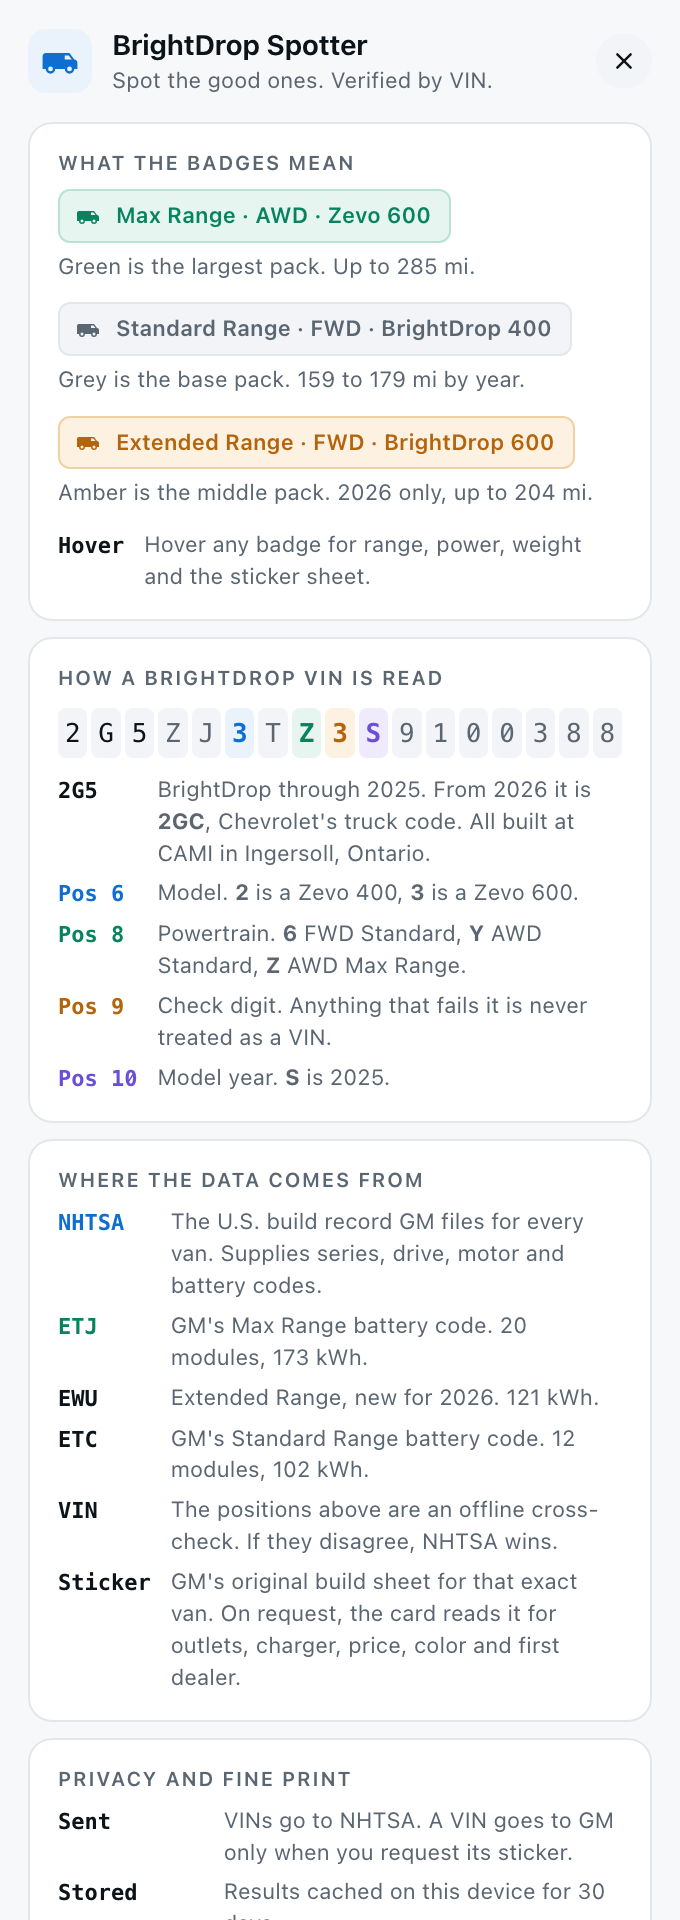
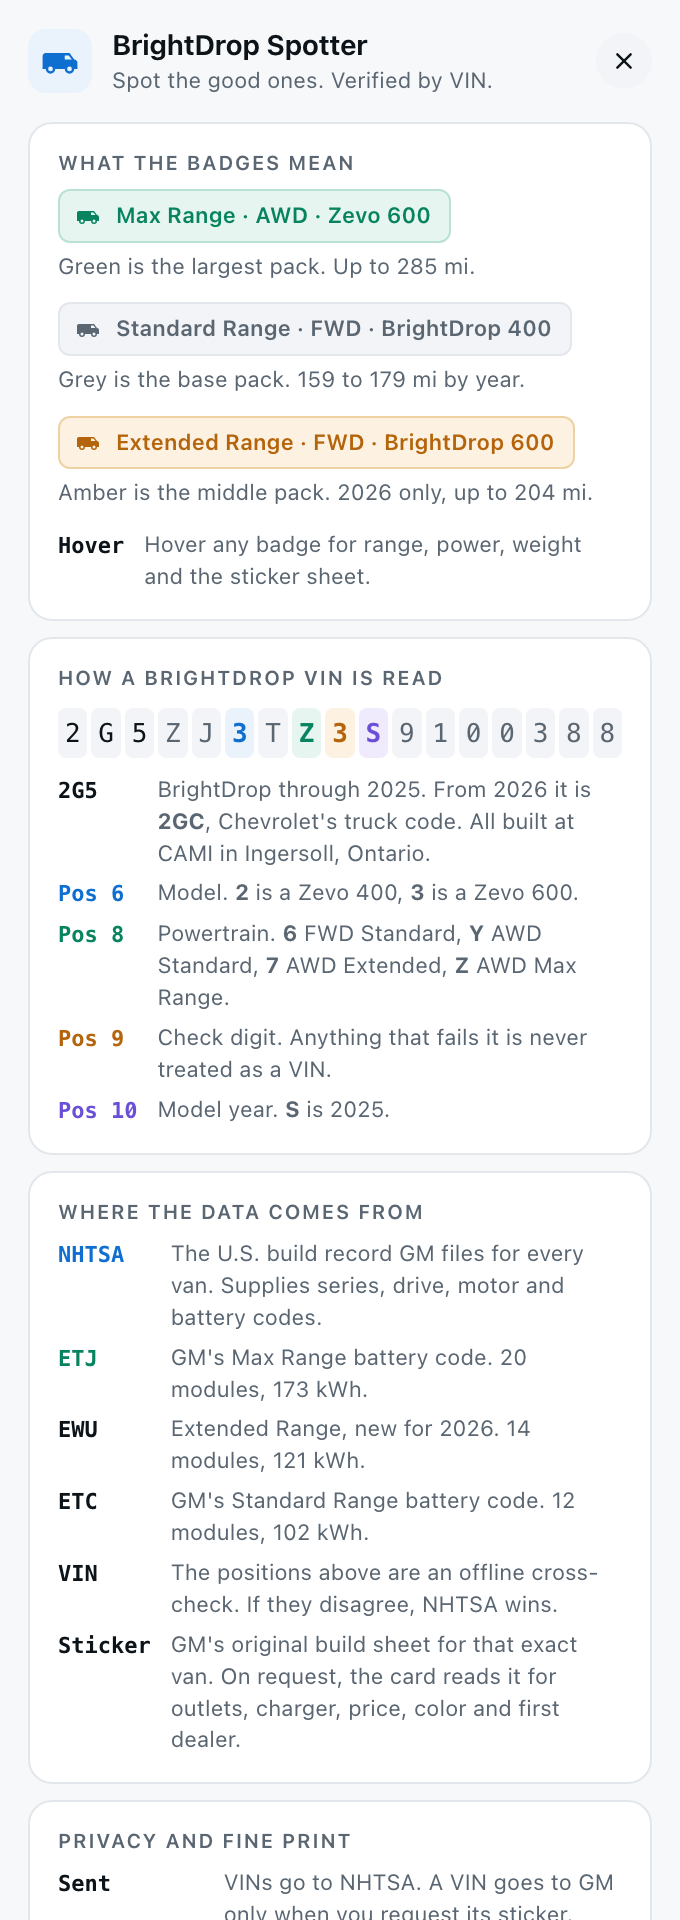
1.3.0: 2026 Extended Range from the VIN
Position 8 = 7 is AWD Extended Range (XRJ + EWU, 14 modules), confirmed on
2GCZJ3T7XT9100132 by vPIC and its GM window sticker.

- vin.js: decode 7, set EWU to 14 modules, map Extended Range to EWU in the
  vPIC drift check
- README, popup and website: add 7 to the position 8 legend; popup lists
  EWU's module count
- Tests: the confirmed van in the VIN and batch fixtures, drift cases for EWU
- Screenshots: footer shows 1.3.0, About shows the new legend

Changed region(s): [[0.0618, 0.5, 0.8956, 1.0], [0.0926, 0.6875, 0.2162, 0.875], [0.0618, 0.9062, 0.2162, 1.0]]

diff --git a/vin.js b/vin.js
@@ -112,6 +112,7 @@ export const VDS_POSITIONS = {
     values: {
       '6': { value: 'FWD · Standard Range', samples: 2, detail: 'XRM + ETC, 1 motor, 240 hp, 12 modules' },
       'Y': { value: 'AWD · Standard Range', samples: 5, detail: 'XRJ + ETC, 2 motors, 300 hp, 12 modules' },
+      '7': { value: 'AWD · Extended Range', samples: 1, detail: '2026 on. XRJ + EWU, 2 motors, 300 hp, 14 modules' },
       'Z': { value: 'AWD · Max Range', samples: 3, detail: 'XRJ + ETJ, 2 motors, 300 hp, 20 modules' },
       'G': { value: 'AWD · Max Range', samples: 3, detail: '2023 coding (position 7 is H that year). XRJ + ETJ, 2 motors, 300 hp' },
       // No FWD Max Range code exists: GM offers ETJ with AWD only (2025 and 2026 order guides).
@@ -255,10 +256,10 @@ export function decodeVin(raw, patterns = []) {
 const VPIC = 'https://vpic.nhtsa.dot.gov/api/vehicles/DecodeVinValues';
 
 // Usable kWh from GM's 2025 and 2026 order guides. Module counts as vPIC
-// reports them; EWU's is not published, so vPIC supplies it.
+// reports them; EWU's 14 is also printed on the window sticker.
 export const BATTERY_RPO = {
   ETC: { name: 'Standard Range', modules: 12, kWh: 102.4 },
-  EWU: { name: 'Extended Range', modules: null, kWh: 121 },
+  EWU: { name: 'Extended Range', modules: 14, kWh: 121 },
   ETJ: { name: 'Max Range', modules: 20, kWh: 173.3 },
 };
 
@@ -349,7 +350,7 @@ export async function lookupVin(raw, patterns = [], { fetchImpl = fetch } = {}) 
     if (localDrive && vpic.driveType && !vpic.driveType.toUpperCase().startsWith(localDrive)) {
       drift.push(`positional decode says ${localDrive}, vPIC says ${vpic.driveType}`);
     }
-    const localBattery = localPower?.includes('Max Range') ? 'ETJ' : localPower ? 'ETC' : null;
+    const localBattery = localPower?.includes('Max Range') ? 'ETJ' : localPower?.includes('Extended Range') ? 'EWU' : localPower ? 'ETC' : null;
     if (localBattery && vpic.batteryCode && localBattery !== vpic.batteryCode) {
       drift.push(`positional decode says ${localBattery}, vPIC says ${vpic.batteryCode}`);
     }

diff --git a/popup.html b/popup.html
@@ -349,7 +349,7 @@ limitations under the License.
         <div class="key">
           <code>2G5</code><span>BrightDrop through 2025. From 2026 it is <b>2GC</b>, Chevrolet's truck code. All built at CAMI in Ingersoll, Ontario.</span>
           <code class="hi">Pos 6</code><span>Model. <b>2</b> is a Zevo 400, <b>3</b> is a Zevo 600.</span>
-          <code class="max">Pos 8</code><span>Powertrain. <b>6</b> FWD Standard, <b>Y</b> AWD Standard, <b>Z</b> AWD Max Range.</span>
+          <code class="max">Pos 8</code><span>Powertrain. <b>6</b> FWD Standard, <b>Y</b> AWD Standard, <b>7</b> AWD Extended, <b>Z</b> AWD Max Range.</span>
           <code class="chk">Pos 9</code><span>Check digit. Anything that fails it is never treated as a VIN.</span>
           <code class="yr">Pos 10</code><span>Model year. <b>S</b> is 2025.</span>
         </div>
@@ -361,7 +361,7 @@ limitations under the License.
         <div class="key">
           <code><a href="https://vpic.nhtsa.dot.gov/" target="_blank" rel="noopener noreferrer">NHTSA</a></code><span>The U.S. build record GM files for every van. Supplies series, drive, motor and battery codes.</span>
           <code class="max">ETJ</code><span>GM's Max Range battery code. 20 modules, 173 kWh.</span>
-          <code>EWU</code><span>Extended Range, new for 2026. 121 kWh.</span>
+          <code>EWU</code><span>Extended Range, new for 2026. 14 modules, 121 kWh.</span>
           <code>ETC</code><span>GM's Standard Range battery code. 12 modules, 102 kWh.</span>
           <code>VIN</code><span>The positions above are an offline cross-check. If they disagree, NHTSA wins.</span>
           <code>Sticker</code><span>GM's original build sheet for that exact van. On request, the card reads it for outlets, charger, price, color and first dealer.</span>

diff --git a/web/index.html b/web/index.html
@@ -98,7 +98,7 @@ limitations under the License.
             </div>
             <div class="key">
               <code class="hi">6th</code><span>Size. <b>2</b> is a 400, <b>3</b> is the longer 600.</span>
-              <code class="max">8th</code><span>Battery and drive. <b>Z</b> is Max Range with all-wheel drive. <b>Y</b> is Standard with all-wheel drive. <b>6</b> is Standard with front-wheel drive.</span>
+              <code class="max">8th</code><span>Battery and drive. <b>Z</b> is Max Range with all-wheel drive. <b>7</b> is Extended Range with all-wheel drive. <b>Y</b> is Standard with all-wheel drive. <b>6</b> is Standard with front-wheel drive.</span>
               <code class="yr">10th</code><span>Model year. <b>R</b> is 2024, <b>S</b> is 2025, <b>T</b> is 2026.</span>
             </div>
           </div>

diff --git a/README.md b/README.md
@@ -103,7 +103,7 @@ Stickers are fetched one at a time and only when asked.
 | 1-3 | Manufacturer | `2G5` through 2025, `2GC` from 2026 (shared with Chevrolet trucks; NHTSA confirms the model) |
 | 4 | GVWR | `8` = 11,000 lb, `Z` = 9,990 lb |
 | 6 | Model | `2` = 400, `3` = 600 |
-| 8 | Powertrain | `6` FWD Standard, `Y` AWD Standard, `Z` AWD Max Range |
+| 8 | Powertrain | `6` FWD Standard, `Y` AWD Standard, `7` AWD Extended Range, `Z` AWD Max Range |
 | 9 | Check digit | rejects anything that isn't a VIN |
 | 10 | Model year | `R` 2024, `S` 2025, `T` 2026 |
 
